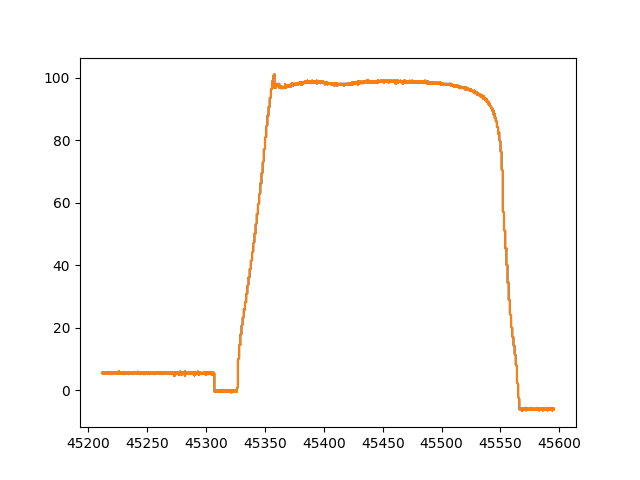
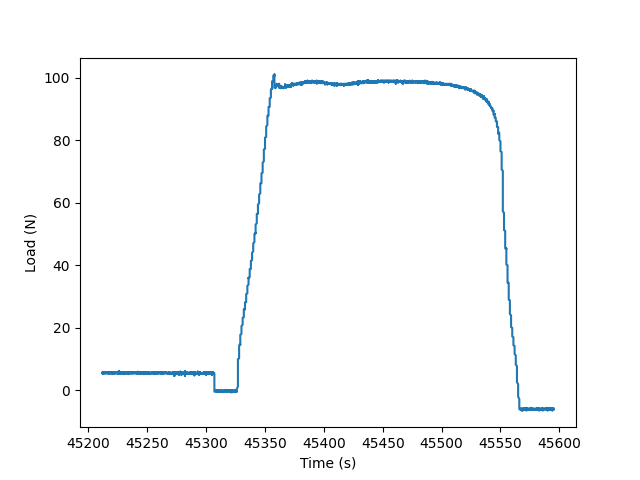
second-sample

diff --git a/app/templates/upload.html b/app/templates/upload.html
@@ -11,6 +11,8 @@
     </select>
     <label for="area">Area (mm²):</label>
     <input type="text" name="area">
+    <label for="length">Length (mm):</label>
+    <input type="text" name="length">
     <input type="file" name="file">
     <input type="submit" value="Upload">
 </form>

diff --git a/app/templates/result.html b/app/templates/result.html
@@ -4,9 +4,10 @@
     <title>Analysis Result</title>
 </head>
 <body>
-    <h1>Analysis Result</h1>
+    <h1>Analysis Result1</h1>
     <img src="{{ image_path }}" alt="Analysis Result">
     <br>
     <a href="/">Upload another file</a>
 </body>
+
 </html>

diff --git a/app/routes.py b/app/routes.py
@@ -17,6 +17,7 @@ def upload_file():
 def analyze_file():
     material = request.form['material']
     area = float(request.form['area'])
+    length = float(request.form['length'])
     file = request.files['file']
     filepath = os.path.join(app.config['UPLOAD_FOLDER'], file.filename)
     file.save(filepath)
@@ -24,13 +25,19 @@ def analyze_file():
     data = data_raw.iloc[:, :4]
     data.columns = ['time','Analog1','Analog2','Analog3']
     data['Load_N'] = data['Analog1']*200
-    data['Strain_percentage']=data['Analog2']/data['Analog2'].median()
+    Strain_percentage=data['Analog2'].median()
     data['Stroke_mm'] = data['Analog3']*6
+    data['Nominal Stress (MPa)'] = data['Load_N']/area
+    data['Nominal Strain(gage) (%)'] = data['Analog2']/Strain_percentage
+    data['Nominal Straain(Stroke)']= (data['Stroke_mm']*100)/length
+    data['True Stress (MPa)'] = data['Nominal Stress (MPa)']*(1+data['Nominal Strain(gage) (%)']/100)
     def time_to_seconds(time):
        return time.hour*3600 + time.minute*60 + time.second
     data['time_seconds'] = data['time'].apply(time_to_seconds)
+    plt.xlabel('Time (s)')
+    plt.ylabel('Load (N)')
     plt.plot(data['time_seconds'], data['Load_N'])
-    image_filename = 'result.png'
+    image_filename = 'fig1.png'
     image_path = os.path.join(app.config['UPLOAD_FOLDER'], image_filename)
     image_url = url_for('static', filename=f'images/{image_filename}')
     plt.savefig(image_path)
